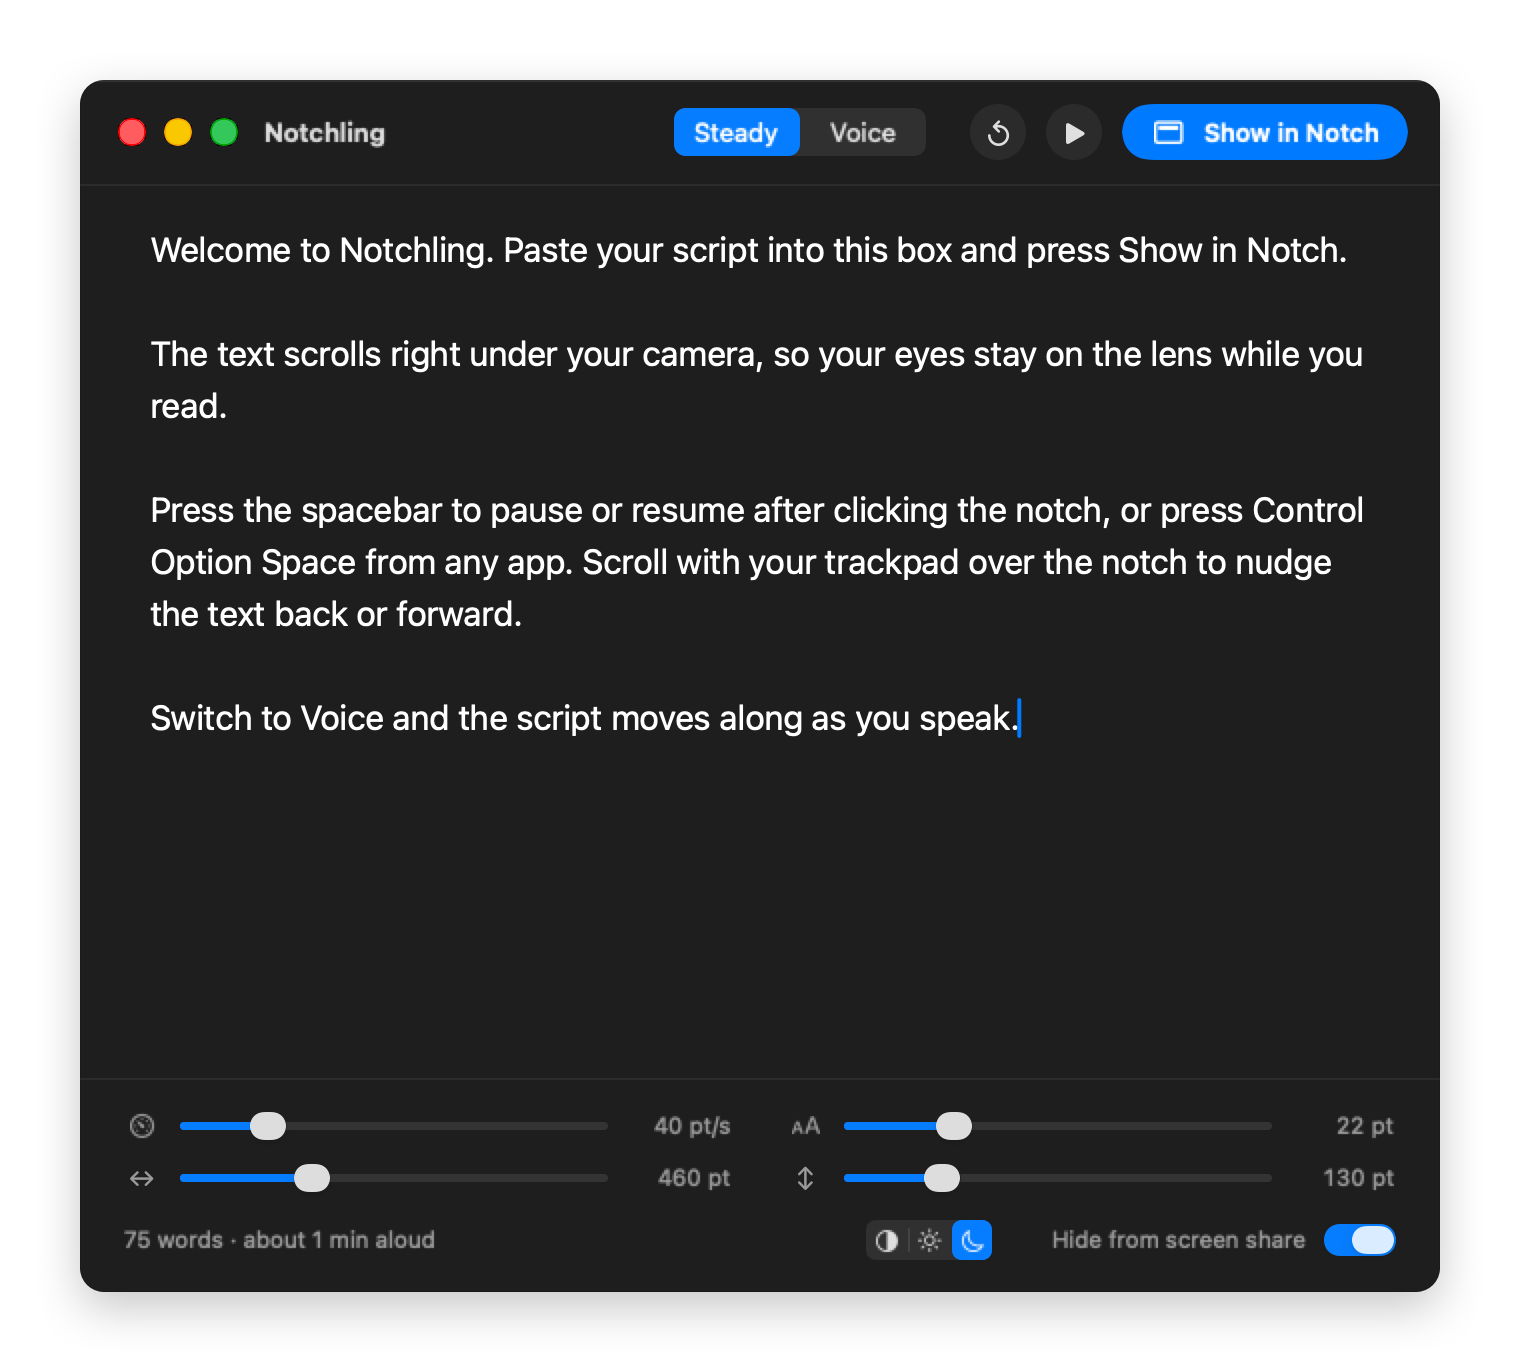
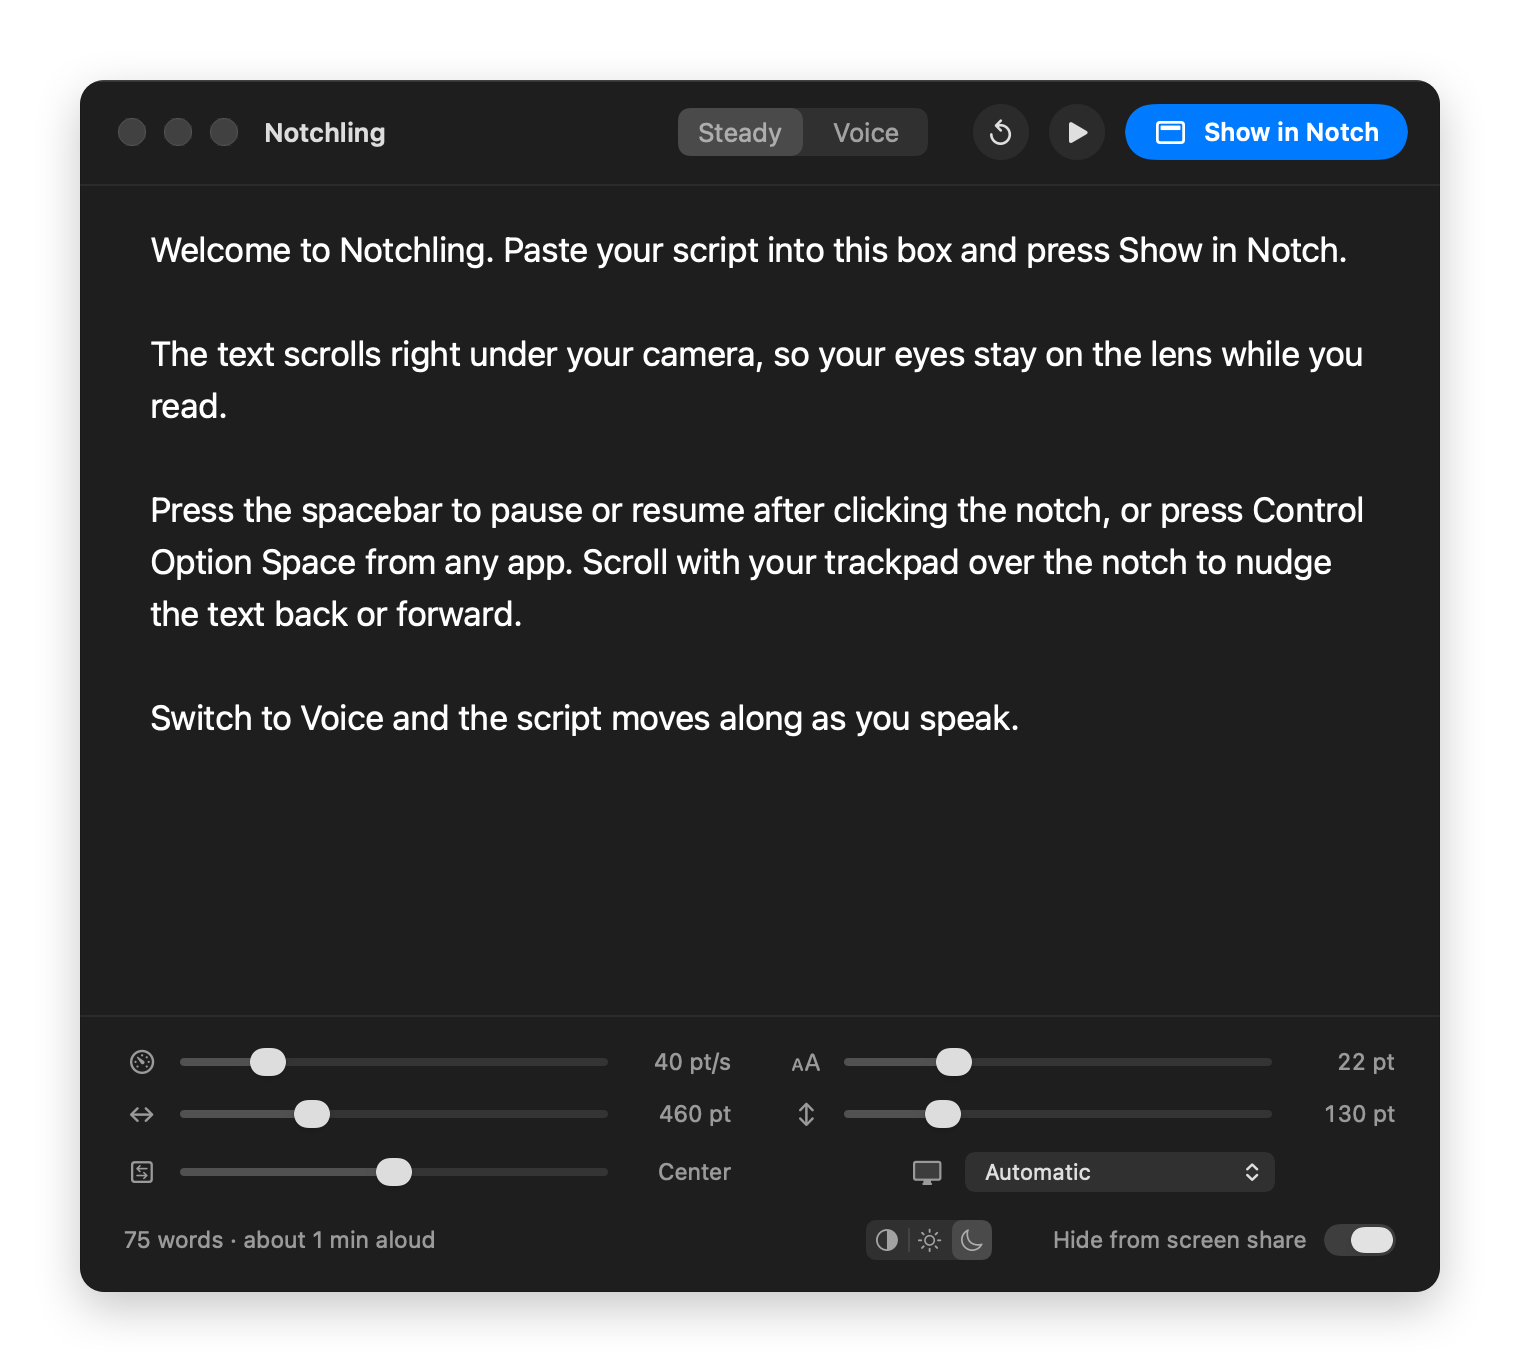
Pick any display, slide left/right, softer text

diff --git a/Sources/EditorView.swift b/Sources/EditorView.swift
@@ -3,6 +3,7 @@ import SwiftUI
 struct EditorView: View {
     @Bindable var model: PrompterModel
     let controller: NotchController
+    @State private var screens = NSScreen.screens
 
     /// Height of the header, which sits in the transparent title bar beside the traffic lights.
     static let headerHeight: CGFloat = 52
@@ -96,6 +97,15 @@ struct EditorView: View {
                     SettingSlider(symbol: "arrow.up.and.down", help: "Prompter height",
                                   value: $model.panelHeight, range: 60...400, unit: "pt")
                 }
+                GridRow {
+                    SettingSlider(symbol: "arrow.left.arrow.right.square", help: "Position: slide left or right of center",
+                                  value: offsetBinding, range: -800...800, unit: "pt",
+                                  format: { $0 == 0 ? "Center" : $0 < 0 ? "← \(Int(-$0))" : "\(Int($0)) →" })
+                    displayPicker
+                }
+            }
+            .onReceive(NotificationCenter.default.publisher(for: NSApplication.didChangeScreenParametersNotification)) { _ in
+                screens = NSScreen.screens
             }
 
             HStack(spacing: 14) {
@@ -131,6 +141,30 @@ struct EditorView: View {
         .overlay(alignment: .top) { Divider().opacity(0.6) }
     }
 
+    /// Snaps to center near zero so it's easy to get back.
+    private var offsetBinding: Binding<Double> {
+        Binding(get: { model.horizontalOffset },
+                set: { model.horizontalOffset = abs($0) < 15 ? 0 : $0.rounded() })
+    }
+
+    private var displayPicker: some View {
+        HStack(spacing: 10) {
+            Image(systemName: "display")
+                .font(.system(size: 12, weight: .medium))
+                .foregroundStyle(.secondary)
+                .frame(width: 18)
+            Picker("Display", selection: $model.displayID) {
+                Text("Automatic").tag(0)
+                ForEach(screens, id: \.displayID) { screen in
+                    Text(screen.localizedName).tag(screen.displayID)
+                }
+            }
+            .labelsHidden()
+            .controlSize(.small)
+        }
+        .help("Display to show the prompter on")
+    }
+
     private var stats: String {
         let words = model.script.split { $0.isWhitespace || $0.isNewline }.count
         let minutes = max(1, Int((Double(words) / 150).rounded()))
@@ -164,6 +198,7 @@ private struct SettingSlider: View {
     @Binding var value: Double
     let range: ClosedRange<Double>
     let unit: String
+    var format: ((Double) -> String)? = nil
 
     var body: some View {
         HStack(spacing: 10) {
@@ -173,7 +208,7 @@ private struct SettingSlider: View {
                 .frame(width: 18)
             Slider(value: $value, in: range)
                 .controlSize(.small)
-            Text("\(Int(value)) \(unit)")
+            Text(format?(value) ?? "\(Int(value)) \(unit)")
                 .font(.system(size: 11.5).monospacedDigit())
                 .foregroundStyle(.secondary)
                 .frame(width: 52, alignment: .trailing)

diff --git a/Sources/NotchController.swift b/Sources/NotchController.swift
@@ -94,14 +94,30 @@ final class NotchController {
     /// Places the panel flush with the top of the notched display, centered on
     /// the camera. Displays without a notch get it just below the menu bar.
     private func position() {
-        guard let screen = NSScreen.screens.first(where: { $0.safeAreaInsets.top > 0 }) ?? NSScreen.main else { return }
-        let notch = screen.safeAreaInsets.top
-        let width = CGFloat(model.panelWidth)
+        let chosen = model.displayID == 0 ? nil : NSScreen.screens.first { $0.displayID == model.displayID }
+        guard let screen = chosen ?? NSScreen.screens.first(where: { $0.safeAreaInsets.top > 0 }) ?? NSScreen.main else { return }
+        let frame = screen.frame
+        let width = min(CGFloat(model.panelWidth), frame.width)
+        let x = min(max(frame.midX - width / 2 + CGFloat(model.horizontalOffset), frame.minX), frame.maxX - width)
+
+        // Hang from the top edge only while the panel still covers the notch;
+        // slid past it, sit below the menu bar like on any other display.
+        var notch = screen.safeAreaInsets.top
+        if notch > 0, let left = screen.auxiliaryTopLeftArea, let right = screen.auxiliaryTopRightArea {
+            let notchMinX = frame.minX + left.width, notchMaxX = frame.maxX - right.width
+            if x > notchMinX + 1 || x + width < notchMaxX - 1 { notch = 0 }
+        }
         let height = CGFloat(model.panelHeight) + notch
-        let top = notch > 0 ? screen.frame.maxY : screen.visibleFrame.maxY
+        let top = notch > 0 ? frame.maxY : screen.visibleFrame.maxY
         view.notchHeight = notch
         panel.sharingType = model.hideFromScreenShare ? .none : .readOnly
-        panel.setFrame(NSRect(x: screen.frame.midX - width / 2, y: top - height, width: width, height: height), display: true)
+        panel.setFrame(NSRect(x: x, y: top - height, width: width, height: height), display: true)
+    }
+}
+
+extension NSScreen {
+    var displayID: Int {
+        (deviceDescription[NSDeviceDescriptionKey("NSScreenNumber")] as? NSNumber)?.intValue ?? 0
     }
 }
 

diff --git a/Sources/PrompterView.swift b/Sources/PrompterView.swift
@@ -8,6 +8,8 @@ final class PrompterView: NSView {
     private let layoutManager = NSLayoutManager()
     private let container = NSTextContainer(size: .zero)
     private let hPad: CGFloat = 22
+    /// Slightly off-white so the text is a touch softer against the black panel.
+    private let textColor = NSColor(white: 0.86, alpha: 1)
 
     /// Normalized script words with their character ranges, for voice following.
     private var words: [(word: String, range: NSRange)] = []
@@ -79,7 +81,7 @@ final class PrompterView: NSView {
         para.paragraphSpacing = size * 0.6
         storage.setAttributedString(NSAttributedString(string: model.script, attributes: [
             .font: NSFont.systemFont(ofSize: size, weight: .semibold),
-            .foregroundColor: NSColor.white,
+            .foregroundColor: textColor,
             .paragraphStyle: para,
         ]))
         container.size = NSSize(width: max(60, bounds.width - hPad * 2), height: .greatestFiniteMagnitude)
@@ -184,9 +186,9 @@ final class PrompterView: NSView {
         guard storage.length > 0 else { return }
         let split = index >= words.count ? storage.length : (index == 0 ? 0 : words[index].range.location)
         storage.beginEditing()
-        storage.addAttribute(.foregroundColor, value: NSColor.white, range: NSRange(location: 0, length: storage.length))
+        storage.addAttribute(.foregroundColor, value: textColor, range: NSRange(location: 0, length: storage.length))
         if split > 0 {
-            storage.addAttribute(.foregroundColor, value: NSColor.white.withAlphaComponent(0.4), range: NSRange(location: 0, length: split))
+            storage.addAttribute(.foregroundColor, value: textColor.withAlphaComponent(0.4), range: NSRange(location: 0, length: split))
         }
         storage.endEditing()
         needsDisplay = true

diff --git a/Sources/Model.swift b/Sources/Model.swift
@@ -31,6 +31,10 @@ final class PrompterModel {
     var fontSize: Double { didSet { Self.defaults.set(fontSize, forKey: "fontSize"); onChange?(.layout) } }
     var panelWidth: Double { didSet { Self.defaults.set(panelWidth, forKey: "panelWidth"); onChange?(.layout) } }
     var panelHeight: Double { didSet { Self.defaults.set(panelHeight, forKey: "panelHeight"); onChange?(.layout) } }
+    /// Horizontal shift from the center of the display, in points.
+    var horizontalOffset: Double { didSet { Self.defaults.set(horizontalOffset, forKey: "horizontalOffset"); onChange?(.layout) } }
+    /// Display to show the prompter on; 0 picks the notched display, else the main one.
+    var displayID: Int { didSet { Self.defaults.set(displayID, forKey: "displayID"); onChange?(.layout) } }
     var hideFromScreenShare: Bool { didSet { Self.defaults.set(hideFromScreenShare, forKey: "hideFromScreenShare"); onChange?(.layout) } }
     var appearance: AppAppearance { didSet { Self.defaults.set(appearance.rawValue, forKey: "appearance"); applyAppearance() } }
     var mode: ScrollMode { didSet { Self.defaults.set(mode.rawValue, forKey: "mode"); onChange?(.mode) } }
@@ -49,6 +53,8 @@ final class PrompterModel {
         panelWidth = d.object(forKey: "panelWidth") as? Double ?? 460
         panelHeight = d.object(forKey: "panelHeight") as? Double ?? 130
         hideFromScreenShare = d.object(forKey: "hideFromScreenShare") as? Bool ?? true
+        horizontalOffset = d.double(forKey: "horizontalOffset")
+        displayID = d.integer(forKey: "displayID")
         mode = ScrollMode(rawValue: d.string(forKey: "mode") ?? "") ?? .steady
         appearance = AppAppearance(rawValue: d.string(forKey: "appearance") ?? "") ?? .system
     }

diff --git a/README.md b/README.md
@@ -11,7 +11,7 @@
 ### Features
 
 - **Paste and go.** One text box for your script. It's saved between launches.
-- **Lives in the notch.** A black panel that blends into the notch and scrolls your script just below the camera. Displays without a notch get it centered under the menu bar.
+- **Lives in the notch.** A black panel that blends into the notch and scrolls your script just below the camera. Works on any display, too: pick one and slide the prompter left or right to sit under your webcam.
 - **Readable text.** Adjustable text size (14–48 pt), panel width, and height.
 - **Steady scrolling** at a speed you set (5–200 pt/s).
 - **Voice mode.** Optional mode that keeps your place in the script as you speak, using on-device speech recognition. Lines you've already read dim out.
